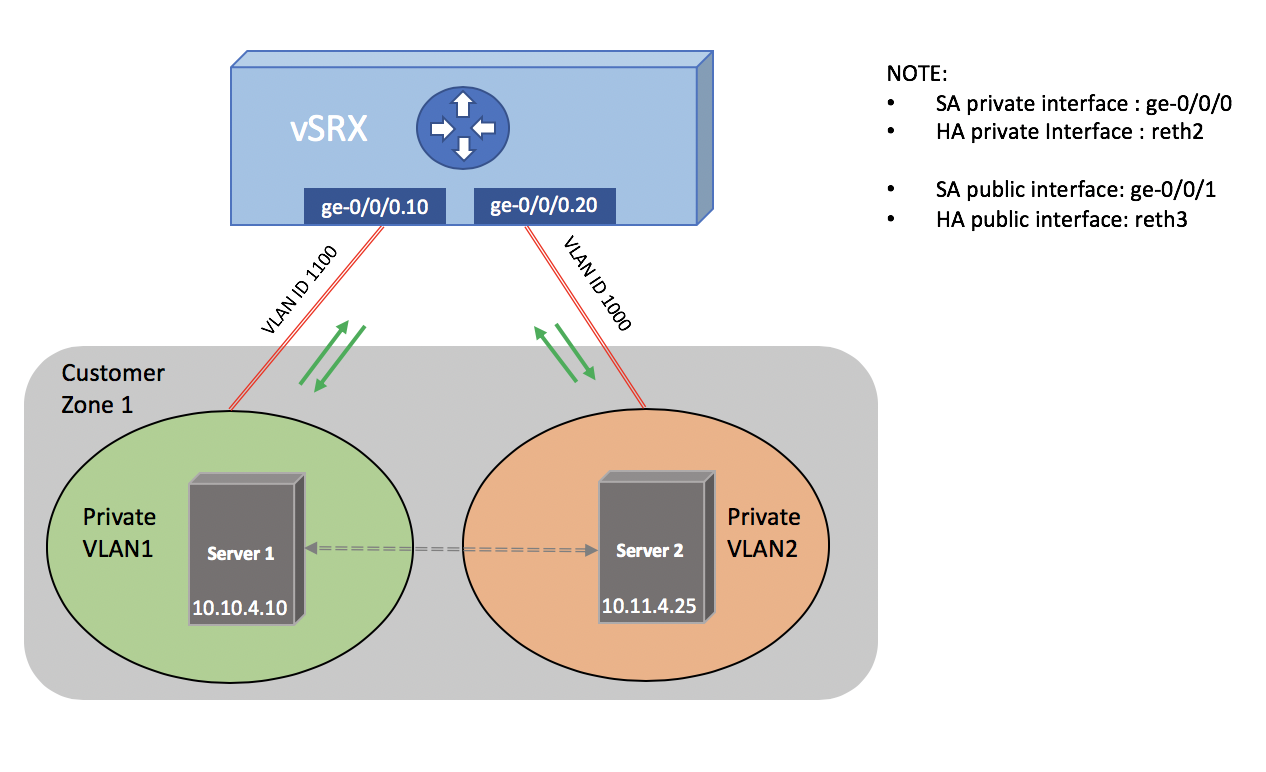
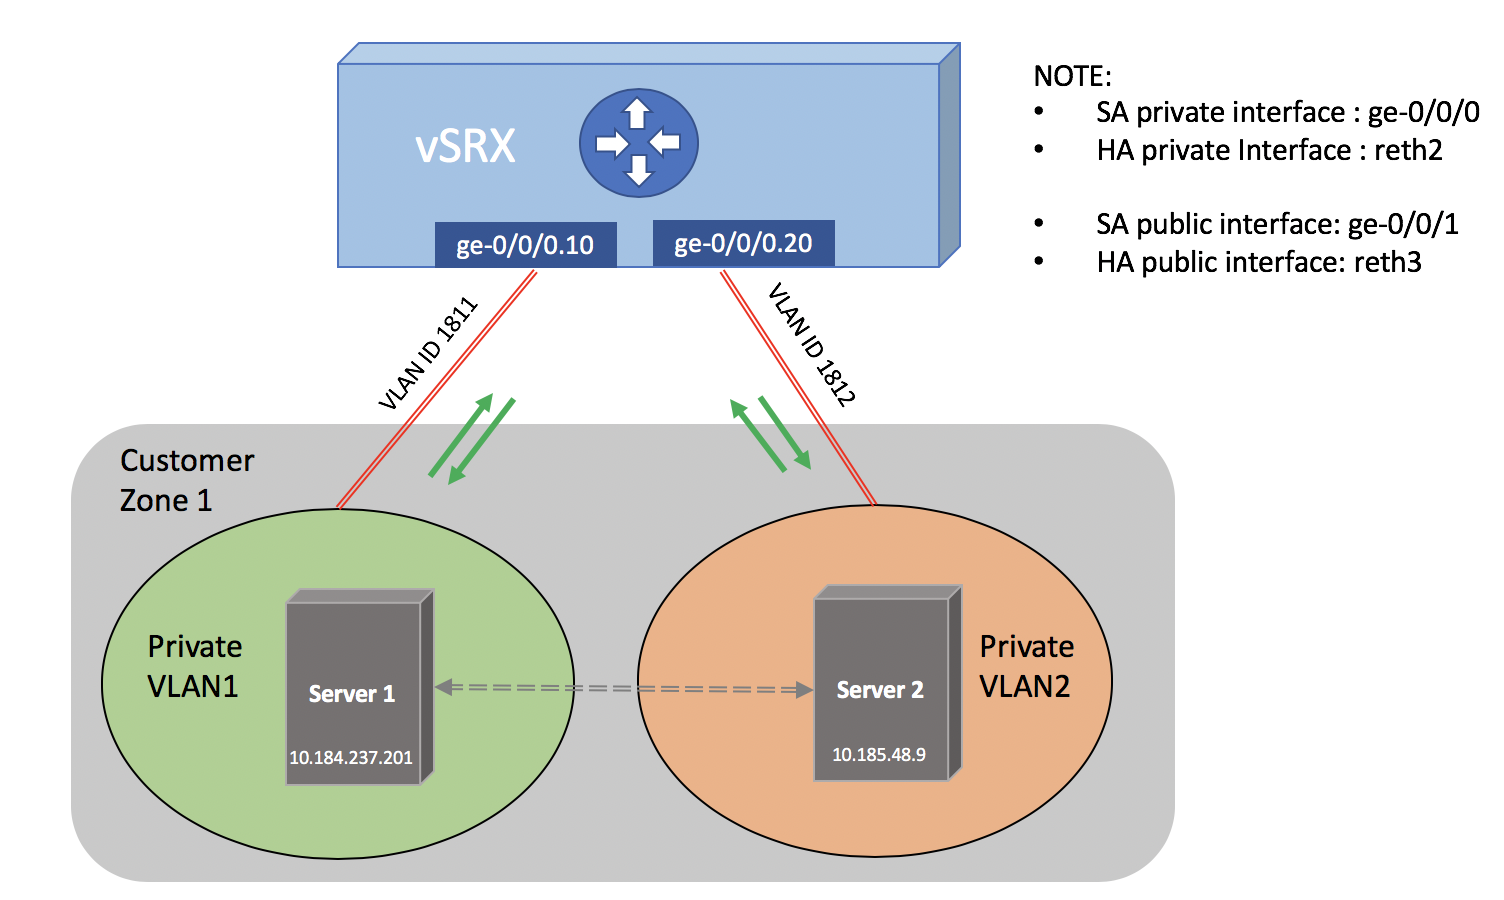
VLANS diagram update

diff --git a/manage-vlans.md b/manage-vlans.md
@@ -97,7 +97,7 @@ set interfaces reth2 unit 50 family inet address <IP/MASK>
 Below is a sample configuration for vSRX which defines two private interfaces and one customer zone.
 With this sample configuration Private VLAN1 and Private VLAN2 can communicate with each other. Stand alone vSRX interfaces are defined as ge-0/0/0 (private) and ge-0/0/1 (public), and for High Availability instance, they are defined as reth2 (HA private) and reth3 (HA public).
 
-![VLAN configuration](images/Sample-Topology-VLAN-to-VLAN.png)
+<img src="images/Sample-Topology-VLAN-to-VLAN.png" alt="drawing" style="width: 500px;"/>
 
 ```
 # show interfaces
